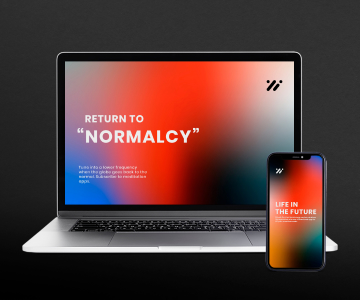
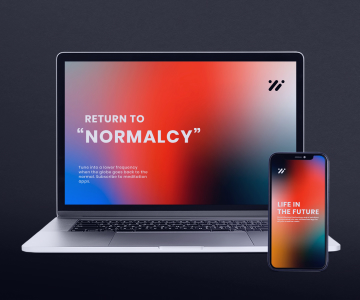
update 2x img

diff --git a/portfolio.html b/portfolio.html
@@ -158,6 +158,7 @@
                 <div class="portfolio-list-link-wraper">
                   <img
                     class="portfolio-list-img"
+                    srcset="./images/cards/bank-app-1@2x.jpg 2x"
                     src="./images/cards/bank-app-1.jpg"
                     width="360"
                     height="300"
@@ -179,6 +180,7 @@
                 <div class="portfolio-list-link-wraper">
                   <img
                     class="portfolio-list-img"
+                    srcset="./images/cards/pay-2@2x.jpg 2x"
                     src="./images/cards/pay-2.jpg"
                     width="360"
                     height="300"
@@ -200,6 +202,7 @@
                 <div class="portfolio-list-link-wraper">
                   <img
                     class="portfolio-list-img"
+                    srcset="./images/cards/meditation-app-3@2x.jpg 2x"
                     src="./images/cards/meditation-app-3.jpg"
                     width="360"
                     height="300"
@@ -221,6 +224,7 @@
                 <div class="portfolio-list-link-wraper">
                   <img
                     class="portfolio-list-img"
+                    srcset="./images/cards/taxi-service-4@2x.jpg 2x"
                     src="./images/cards/taxi-service-4.jpg"
                     width="360"
                     height="300"
@@ -242,6 +246,7 @@
                 <div class="portfolio-list-link-wraper">
                   <img
                     class="portfolio-list-img"
+                    srcset="./images/cards/screen-illustrations-5@2x.jpg 2x"
                     src="./images/cards/screen-illustrations-5.jpg"
                     width="360"
                     height="300"
@@ -263,6 +268,7 @@
                 <div class="portfolio-list-link-wraper">
                   <img
                     class="portfolio-list-img"
+                    srcset="./images/cards/online-courses-6@2x.jpg 2x"
                     src="./images/cards/online-courses-6.jpg"
                     width="360"
                     height="300"
@@ -284,6 +290,7 @@
                 <div class="portfolio-list-link-wraper">
                   <img
                     class="portfolio-list-img"
+                    srcset="./images/cards/instagram-7@2x.jpg 2x"
                     src="./images/cards/instagram-7.jpg"
                     width="360"
                     height="300"
@@ -305,6 +312,7 @@
                 <div class="portfolio-list-link-wraper">
                   <img
                     class="portfolio-list-img"
+                    srcset="./images/cards/organic-food-8@2x.jpg 2x"
                     src="./images/cards/organic-food-8.jpg"
                     width="360"
                     height="300"
@@ -326,6 +334,7 @@
                 <div class="portfolio-list-link-wraper">
                   <img
                     class="portfolio-list-img"
+                    srcset="./images/cards/fresh-coffee-9@2x.jpg 2x"
                     src="./images/cards/fresh-coffee-9.jpg"
                     width="360"
                     height="300"

diff --git a/css/styles.css b/css/styles.css
@@ -887,6 +887,10 @@ background-color: #31d0aa;
     row-gap: 48px;
 }
 
+.portfolio-list-img {
+    width: 396px;
+}
+
 .overlay {
     display: none;
 }
@@ -1198,9 +1202,8 @@ screen and (min-resolution: 2dppx) and (max-width: 1157px) {
 
 /* FILTERS */
 .filters-list {
-    display: flex;
     justify-content: center;
-    column-gap: 24px;
+    row-gap: 72px;
     margin-bottom: 64px;
 }
 
@@ -1390,9 +1393,6 @@ screen and (min-resolution: 2dppx) and (min-width: 1158px) {
 
 /* FILTERS */
 .filters-list {
-    display: flex;
-    justify-content: center;
-    column-gap: 24px;
     margin-bottom: 72px;
 }
 
@@ -1428,5 +1428,4 @@ screen and (min-resolution: 2dppx) and (min-width: 1158px) {
 }
 /* /FILTERS */
 /* /PORTFOLIO */
-
 }
